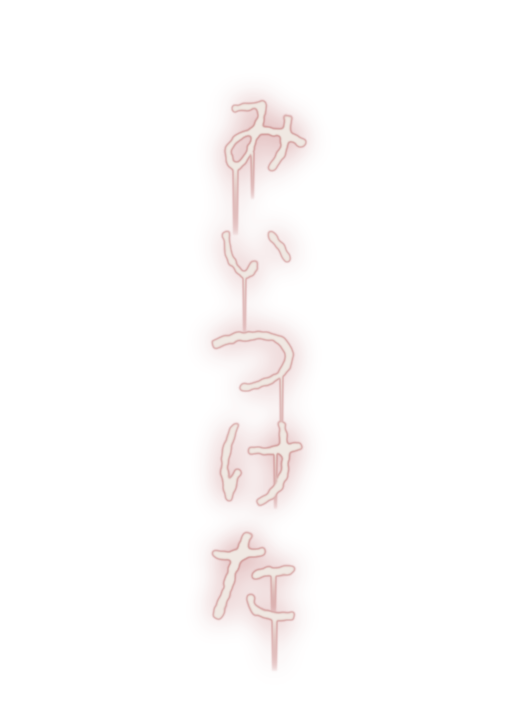
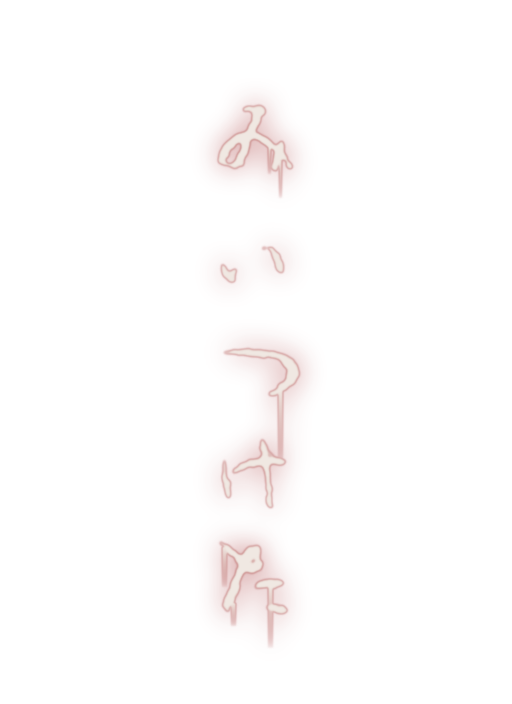
ガラスの文字を、Yuji Boku（筆）のフォントで作り直す
Claude-Session: https://claude.ai/code/session_01KVNf8hmEAkWKYefnRGnLeu

Changed region(s): [[0.4062, 0.125, 0.5938, 0.7188], [0.4062, 0.75, 0.5938, 0.9688], [0.5, 0.3125, 0.5625, 0.4062]]

diff --git a/games/koushu-denwa/STATUS.md b/games/koushu-denwa/STATUS.md
@@ -91,7 +91,8 @@ GeForce RTX 2070 SUPER／Core i7-10700K／メモリ32GB／SSD 1TB＋HDD 2TB
 
 ## 進行中・次にやること
 
-- **ガラスの文字のフォント**：ゴシック体に「手書きのゆがみ・かすれ・垂れ」をかけた雰囲気にした。好きなフォント（筆・手書き）は `assets/fonts/` に入れると、`make_glass_texts()` がそれを使う（`glass` を名前に入れると優先。OFLなど商用OKのものだけ）。
+- **ガラスの文字：Yuji Boku（筆）に差し替えた**（`assets/fonts/glass_YujiBoku-Regular.ttf`。ゆがみ・かすれ・垂れはそのまま）。Unrealへは、Pull → `setup_game_fp.py` を実行し直す。
+- **ガラスの文字のフォント（前の案）**：ゴシック体に「手書きのゆがみ・かすれ・垂れ」をかけた雰囲気にした。好きなフォント（筆・手書き）は `assets/fonts/` に入れると、`make_glass_texts()` がそれを使う（`glass` を名前に入れると優先。OFLなど商用OKのものだけ）。
 
 - **ガラスの張り紙を「紙なしの文字」に変えた（未確認）**：ひかるの希望。公衆電話の中に出る12枚は、紙をやめて、ガラスに浮かぶ文字だけ（うす白く光り、赤いにじみ・背景は透明）。画像は `glass_01〜12.png`（`blender/make_game_textures.py` の `make_glass_texts`）。材質は半透明・光るだけ（`GLASS_GLOW`=6）。血の目の写真（`poster_eye.jpg`）と、電話機の上の手がかり（`poster_hint.png`）は紙のまま。反映は `setup_game_fp.py` を実行し直す。次：暗い間だけ見える光る数字（張り紙の順番の謎）を、この文字に付ける。
 
